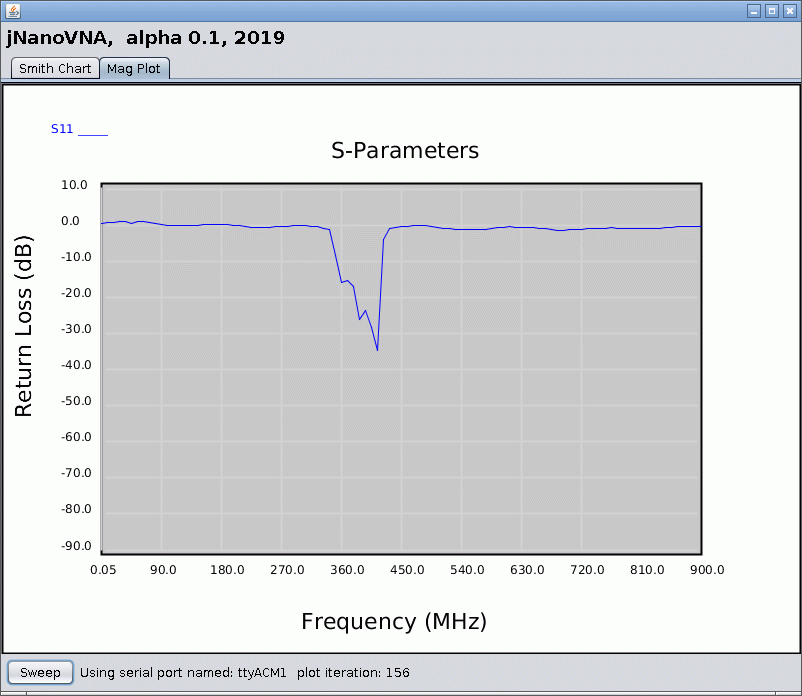
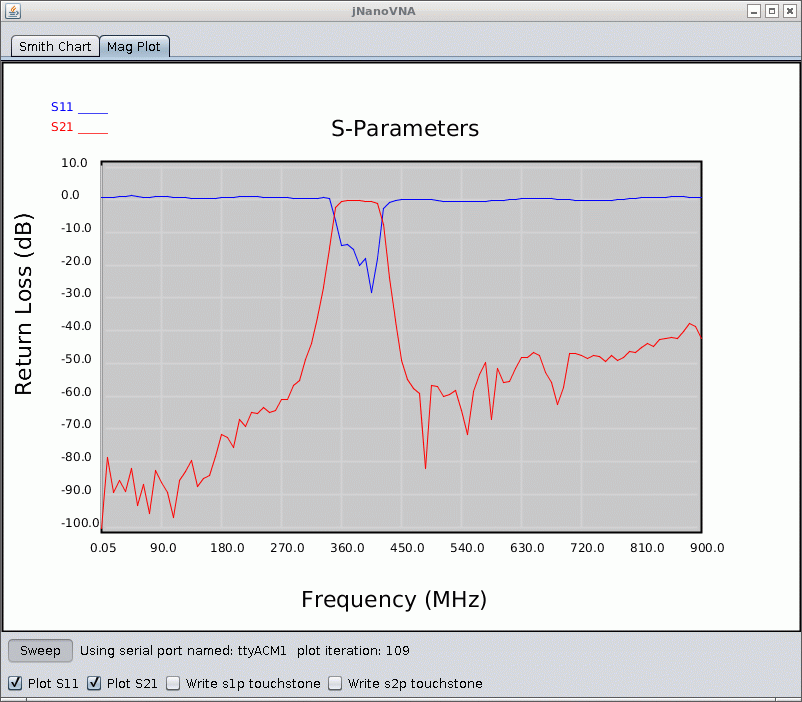
add some range checking.  update screenshots

diff --git a/src/VNAFrame.java b/src/VNAFrame.java
@@ -167,13 +167,21 @@ public class VNAFrame extends javax.swing.JFrame
           String toki="";
           StringTokenizer st2 = new StringTokenizer(str1," ");
           if(st2.countTokens()==2) {
-            real[line-1] = new Double( st2.nextToken() ).doubleValue();
-            imag[line-1] = new Double( st2.nextToken() ).doubleValue();
-            //if(real[line-1] > 1.0) real[line-1]=1.0;
-            //if(real[line-1] < -1.0) real[line-1]=-1.0;
-            //if(imag[line-1] > 1.0) imag[line-1]=1.0;
-            //if(imag[line-1] < -1.0) imag[line-1]=-1.0;
-            data_lines++;
+
+            try {
+
+              real[line-1] = new Double( st2.nextToken() ).doubleValue();
+              imag[line-1] = new Double( st2.nextToken() ).doubleValue();
+
+              if(real[line-1] > 1.0) real[line-1]=1.0;
+              if(real[line-1] < -1.0) real[line-1]=-1.0;
+              if(imag[line-1] > 1.0) imag[line-1]=1.0;
+              if(imag[line-1] < -1.0) imag[line-1]=-1.0;
+            
+              data_lines++;
+            } catch(Exception e) {
+              e.printStackTrace();
+            }
           }
         }
 
@@ -300,7 +308,6 @@ public class VNAFrame extends javax.swing.JFrame
     private void initComponents() {
 
         jPanel3 = new javax.swing.JPanel();
-        jLabel1 = new javax.swing.JLabel();
         jTabbedPane1 = new javax.swing.JTabbedPane();
         jPanel2 = new javax.swing.JPanel();
         jPanel1 = new javax.swing.JPanel();
@@ -314,13 +321,9 @@ public class VNAFrame extends javax.swing.JFrame
         do_write_s2p = new javax.swing.JCheckBox();
 
         setDefaultCloseOperation(javax.swing.WindowConstants.EXIT_ON_CLOSE);
+        setTitle("jNanoVNA");
 
         jPanel3.setLayout(new java.awt.FlowLayout(java.awt.FlowLayout.LEFT));
-
-        jLabel1.setFont(new java.awt.Font("Dialog", 1, 18)); // NOI18N
-        jLabel1.setText("jNanoVNA,  alpha 0.1, 2019");
-        jPanel3.add(jLabel1);
-
         getContentPane().add(jPanel3, java.awt.BorderLayout.NORTH);
 
         jTabbedPane1.setPreferredSize(new java.awt.Dimension(800, 600));
@@ -333,7 +336,7 @@ public class VNAFrame extends javax.swing.JFrame
         );
         jPanel2Layout.setVerticalGroup(
             jPanel2Layout.createParallelGroup(javax.swing.GroupLayout.Alignment.LEADING)
-            .addGap(0, 686, Short.MAX_VALUE)
+            .addGap(0, 708, Short.MAX_VALUE)
         );
 
         jTabbedPane1.addTab("tab1", jPanel2);
@@ -421,7 +424,6 @@ public class VNAFrame extends javax.swing.JFrame
     private javax.swing.JCheckBox do_plot_s21;
     private javax.swing.JCheckBox do_write_s1p;
     private javax.swing.JCheckBox do_write_s2p;
-    private javax.swing.JLabel jLabel1;
     private javax.swing.JLabel jLabel2;
     private javax.swing.JPanel jPanel1;
     private javax.swing.JPanel jPanel2;
